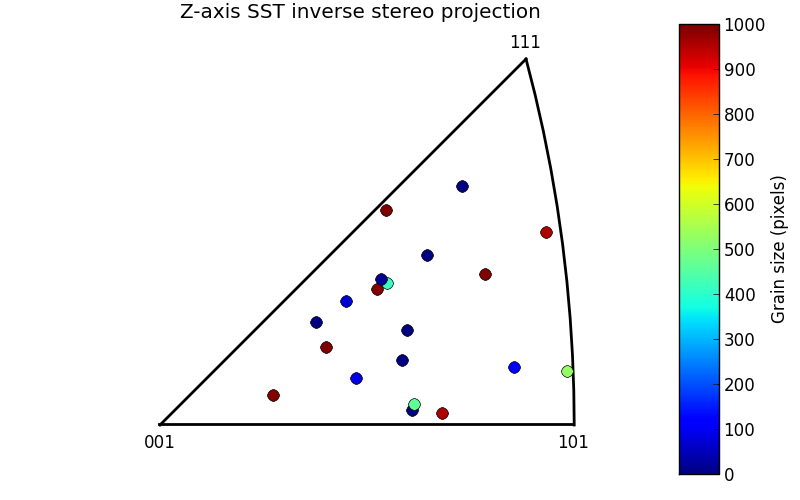
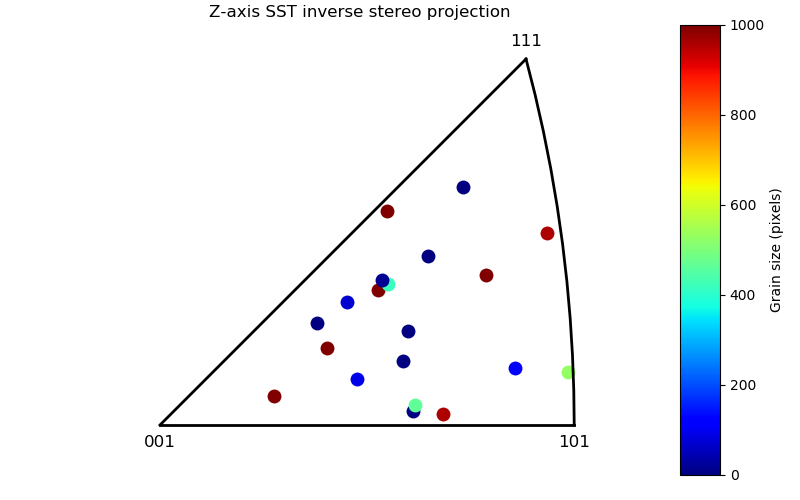
cleaning up plotting examples

diff --git a/examples/plotting/laue_ellipse.py b/examples/plotting/laue_ellipse.py
@@ -11,15 +11,12 @@ if __name__ == '__main__':
     detector = Varian2520()
     detector.ref_pos = np.array([det_distance, 0., 0.])
     ni = Lattice.face_centered_cubic(0.3524)
-    phi1 = 89.4  # deg
-    phi = 92.0  # deg
-    phi2 = 86.8  # deg
+    phi1, phi, phi2 = (89.4, 92.0, 86.8)  # deg
     orientation = Orientation.from_euler([phi1, phi, phi2])
     uvw = HklDirection(1, 0, 5, ni)
 
     all_planes = build_list(lattice=ni, max_miller=8)
     compute_Laue_pattern(orientation, detector, all_planes, color_field='constant', r_spot=10, inverted=True)
-    print(detector.data.max())
 
     plt.figure()  # new figure
     plt.imshow(detector.data.T, cmap=cm.gray, vmin=0, vmax=255)
@@ -30,8 +27,12 @@ if __name__ == '__main__':
     plt.title("Laue pattern, detector distance = %g" % det_distance)
     plt.plot(detector.ucen, detector.vcen, 'ks', label='diffracted beams')
     uvw_miller = uvw.miller_indices()
-    ellipse = compute_ellipsis(orientation, detector, det_distance, uvw, verbose=True)
-    plt.plot(ellipse[0], ellipse[1], 'r--', label='ellipse zone [%d%d%d]' % uvw_miller)
+    ellipse_mm = compute_ellipsis(orientation, detector, uvw, n=21, verbose=True)
+    # recalculate the ellipis coordinates in pixel to plot it
+    ellipse_px = np.zeros((ellipse_mm.shape[0], 2), dtype=np.float)
+    for i in range(ellipse_mm.shape[0]):
+        ellipse_px[i, :] = detector.lab_to_pixel([det_distance, ellipse_mm[i, 0], ellipse_mm[i, 1]])
+    plt.plot(ellipse_px[:, 0], ellipse_px[:, 1], 'r--', label='ellipse zone [%d%d%d]' % uvw_miller)
     plt.legend(numpoints=1, loc='lower right')
 
     image_name = os.path.splitext(__file__)[0] + '.png'

diff --git a/examples/plotting/field_ipf.py b/examples/plotting/field_ipf.py
@@ -7,14 +7,16 @@ from matplotlib import pyplot as plt, colors, colorbar, cm
 An inverse pole figure with symboled colored by the grain size.
 '''
 eulers = Orientation.read_orientations('../data/EBSD_20grains.txt', data_type='euler', usecols=[1, 2, 3])
+grain_sizes = np.genfromtxt('../data/EBSD_20grains.txt', usecols=[9])
 micro = Microstructure(name='test')
 for i in range(20):
     micro.grains.append(Grain(i + 1, eulers[i + 1]))
-grain_sizes = np.genfromtxt('../data/EBSD_20grains.txt', usecols=[9])
+    micro.get_grain(i + 1).volume = grain_sizes[i]
 
 # build a custom pole figure
 pf = PoleFigure(microstructure=micro, hkl='001')#, lattice=Ti7Al)
-pf.mksize = 8
+#pf.resize_markers = True
+pf.mksize = 100
 pf.set_map_field('strain', grain_sizes, field_min_level=0.0, field_max_level=1000., lut='jet')
 fig = plt.figure(figsize=(8, 5))
 ax1 = fig.add_axes([0.05, 0.05, 0.8, 0.9], aspect='equal')

diff --git a/examples/plotting/contour_pole_figure.py b/examples/plotting/contour_pole_figure.py
@@ -13,7 +13,7 @@ if __name__ == '__main__':
         micro.grains.append(Grain(i + 1, eulers[i + 1]))
 
     pf = PoleFigure(microstructure=micro)
-    pf.mksize = 8
+    pf.mksize = 40
     pf.proj = 'stereo'
     pf.set_hkl_poles('111')
     fig = plt.figure(1, figsize=(12, 5))
@@ -23,7 +23,7 @@ if __name__ == '__main__':
     pf.plot_pf(ax=ax2)
 
     image_name = os.path.splitext(__file__)[0] + '.png'
-    print 'writting %s' % image_name
+    print('writting %s' % image_name)
     plt.savefig(image_name, format='png')
 
     from matplotlib import image

diff --git a/examples/plotting/Au_6grains_pole_figure.py b/examples/plotting/Au_6grains_pole_figure.py
@@ -22,12 +22,13 @@ if __name__ == '__main__':
 
     # create pole figure (both direct and inverse)
     pf = PoleFigure(hkl='111', axis='Z', proj='stereo', microstructure=micro)
+    pf.mksize = 100
     pf.set_map_field('grain_id')
     pf.pflegend = True  # this works well for a few grains
     pf.plot_pole_figures(plot_sst=True, display=False, save_as='png')
 
     image_name = os.path.splitext(__file__)[0] + '.png'
-    print 'writting %s' % image_name
+    print('writting %s' % image_name)
 
     from matplotlib import image
 

diff --git a/examples/plotting/field_pole_figure.py b/examples/plotting/field_pole_figure.py
@@ -17,7 +17,7 @@ if __name__ == '__main__':
 
     # build custom pole figures
     pf = PoleFigure(microstructure=micro)
-    pf.mksize = 8
+    pf.mksize = 40
     pf.set_map_field('strain', strain_field, field_min_level=0.015, field_max_level=0.025)
     fig = plt.figure()
     # direct PF

diff --git a/examples/plotting/Cu_111_pole_figure.py b/examples/plotting/Cu_111_pole_figure.py
@@ -22,7 +22,7 @@ if __name__ == '__main__':
     pf.plot_pole_figures(plot_sst=True, display=False, save_as='png')
 
     image_name = os.path.splitext(__file__)[0] + '.png'
-    print 'writting %s' % image_name
+    print('writting %s' % image_name)
 
     from matplotlib import image
 

diff --git a/examples/plotting/Cu_200_pole_figure.py b/examples/plotting/Cu_200_pole_figure.py
@@ -23,7 +23,7 @@ if __name__ == '__main__':
     pf.plot_pole_figures(plot_sst=True, display=False, save_as='png')
 
     image_name = os.path.splitext(__file__)[0] + '.png'
-    print 'writting %s' % image_name
+    print('writting %s' % image_name)
 
     from matplotlib import image
 
